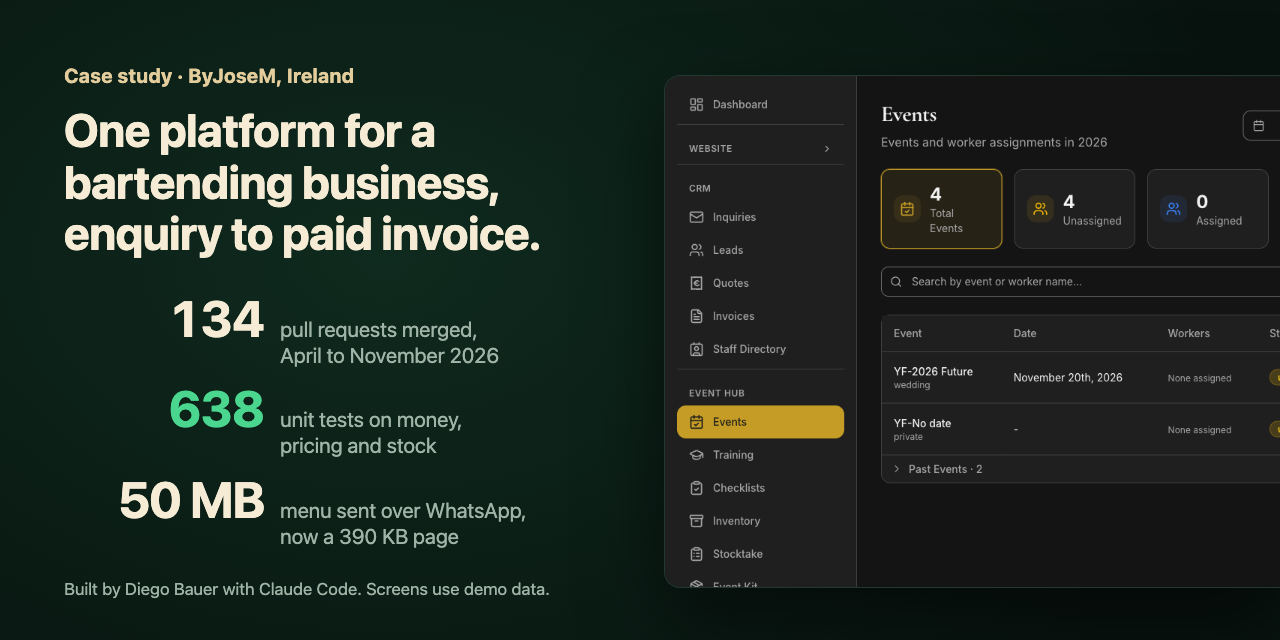
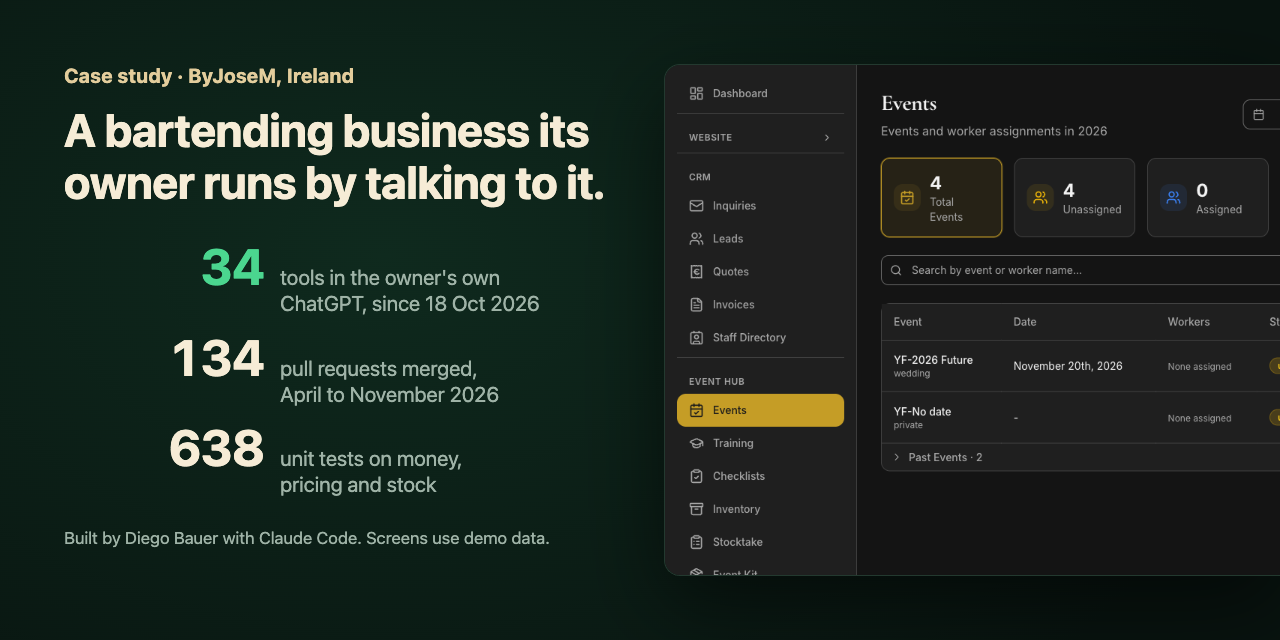
docs: tell the story as talk to your business
The owner now runs ByJoseM by voice from his own ChatGPT. New section
with the connector's 34 tools, how it talks and how it stays safe; new
cover hook; a What went wrong row on the admin and ChatGPT drifting.

diff --git a/docs/src/cover.html b/docs/src/cover.html
@@ -23,11 +23,11 @@ body.social .url { display: block; }
 <body>
   <div>
     <div class="kicker">Case study · ByJoseM, Ireland</div>
-    <h1>One platform for a bartending business, enquiry to paid invoice.</h1>
+    <h1>A bartending business its owner runs by talking to it.</h1>
     <div class="num">
+      <div class="row g"><b>34</b><span>tools in the owner's own<br>ChatGPT, since 18 Oct 2026</span></div>
       <div class="row c"><b>134</b><span>pull requests merged,<br>April to November 2026</span></div>
-      <div class="row g"><b>638</b><span>unit tests on money,<br>pricing and stock</span></div>
-      <div class="row c"><b>50 MB</b><span>menu sent over WhatsApp,<br>now a 390 KB page</span></div>
+      <div class="row c"><b>638</b><span>unit tests on money,<br>pricing and stock</span></div>
     </div>
     <p class="foot">Built by Diego Bauer with Claude Code. Screens use demo data.</p>
   </div>

diff --git a/README.md b/README.md
@@ -1,6 +1,6 @@
 # ByJoseM case study
 
-**One platform for a bartending business, from enquiry to paid invoice.**
+**A bartending business its owner now runs by talking to it.**
 
 [![Case study](https://img.shields.io/badge/case_study-client_work-0c1a1c?style=for-the-badge&labelColor=0c1a1c&color=e3cd9c)](#the-problem)
 [![Screens](https://img.shields.io/badge/screens-demo_data-0c1a1c?style=for-the-badge&labelColor=0c1a1c&color=7fe6da)](#what-it-does)
@@ -9,13 +9,13 @@
 ![Supabase](https://img.shields.io/badge/Supabase-0c1a1c?style=for-the-badge&logo=supabase&logoColor=7fe6da)
 [![Text](https://img.shields.io/badge/text-all_rights_reserved-0c1a1c?style=for-the-badge&labelColor=0c1a1c)](LICENSE)
 
-[![134 pull requests merged between April and November 2026, 638 unit tests on money, pricing and stock, and a 50 MB menu sent over WhatsApp turned into a 390 KB page.](docs/assets/cover.png)](#what-it-does)
+[![34 tools in the owner's own ChatGPT since 18 October 2026, 134 pull requests merged, 638 unit tests on money, pricing and stock.](docs/assets/cover.png)](#talk-to-your-business)
 
-A case study of client work. Built by Diego Bauer for ByJoseM, a premium mobile bartending service in Ireland, from October 2025 to November 2026, with Claude Code. The platform is live and in daily use; the software is private, so this repo holds the story, the decisions and screenshots made with demo data.
+A case study of client work. Built by Diego Bauer for ByJoseM, a premium mobile bartending service in Ireland, from October 2025 to November 2026, with Claude Code. It started as a website and a back office. A year later the owner runs the business by voice from his own ChatGPT, through a connector into that back office. The platform is live and in daily use; the software is private, so this repo holds the story, the decisions and screenshots made with demo data.
 
-**[See the screens](#what-it-does)** (demo data, nothing real) · **[Read the decisions](docs/decisions.md)** · [Architecture](docs/architecture.md) · [Security](docs/security.md) · [byjosem.com](https://www.byjosem.com)
+**[Talk to your business](#talk-to-your-business)** · **[See the screens](#what-it-does)** (demo data, nothing real) · [Read the decisions](docs/decisions.md) · [Architecture](docs/architecture.md) · [Security](docs/security.md) · [byjosem.com](https://www.byjosem.com)
 
-**Contents:** [The problem](#the-problem) · [Research](#research) · [What it does](#what-it-does) · [Results](#results) · [The build](#the-build) · [What went wrong](#what-went-wrong) · [What I learned](#what-i-learned) · [Read more](#read-more)
+**Contents:** [The problem](#the-problem) · [Research](#research) · [What it does](#what-it-does) · [Talk to your business](#talk-to-your-business) · [Results](#results) · [The build](#the-build) · [What went wrong](#what-went-wrong) · [What I learned](#what-i-learned) · [Read more](#read-more)
 
 ## The problem
 
@@ -57,14 +57,14 @@ One booking is one thread: enquiry, lead, quote, event, stock, staff, invoice, p
 
 ## What it does
 
-Three surfaces over one database, plus a ChatGPT connector added in October 2026.
+Three surfaces over one database, plus the ChatGPT connector added in October 2026.
 
 | Surface | Who | What it does |
 |---|---|---|
 | **Public website** | Customers | Packages, services, reviews, FAQs and an enquiry form, all edited by the owner. Enquiries become CRM leads automatically. A cocktail menu lets customers shortlist three drinks and send the choice by WhatsApp, no account needed. |
 | **Admin** | The owner | 32 pages: content, CRM and pipeline, quote builder with branded PDFs and revisions, invoices, payments and receipts, weekly stocktake and reorder list, events hub, staff directory, training, and a help centre of 14 articles. |
 | **Worker portal** | Staff | Their assigned events only: the menu, the checklists for their role, the event kit, a start and complete clock, and a training hub. |
-| **ChatGPT connector** | The owner | The owner asks about events, leads, quotes, stock and who owes money in his own ChatGPT, and can add leads, plan an event and save draft quotes in plain words. |
+| **ChatGPT connector** | The owner | The owner runs the business by talking to it in his own ChatGPT: asks, acts and drafts, by voice. [More below](#talk-to-your-business). |
 
 <table>
 <tr>
@@ -94,7 +94,23 @@ Three surfaces over one database, plus a ChatGPT connector added in October 2026
 5. **Stock** ([decision 1](docs/decisions.md#1-kill-the-recipe-driven-inventory-engine-count-bottles-instead)): a weekly count in the order the owner walks the storeroom, par levels edited inline, a reorder list to copy into WhatsApp.
 6. **Access** ([security](docs/security.md)): two roles, checked in the database and again in the interface. Workers read an event only while assigned to it.
 
-**The ChatGPT connector.** The owner already used ChatGPT, so the platform went there instead of the other way round. It connects through his own account but only reaches a narrow set of its own functions, never the admin's. Saving or changing a quote asks first. Stock leaving or coming back for an event needs a tap on a Confirm card. It never sends anything to a customer, deletes anything or touches payments, treats text typed by customers as untrusted, and can undo its own changes for seven days.
+## Talk to your business
+
+By autumn 2026 the platform did its job: one thread from enquiry to receipt, tested on real bookings. It had replaced five apps and a spreadsheet. What it hadn't replaced was the owner's time at a screen. Jose was still spending a good part of his week inside the admin, on a phone, between events. A better back office would only have made that time a little shorter.
+
+So the last layer wasn't another screen. Jose already used ChatGPT, so the business went there instead of the other way round. Since 18 October 2026 the platform has a connector (an MCP server) in his own ChatGPT account. By mid-November he was running the day-to-day by voice: he says what he needs, and ChatGPT does it in the back office.
+
+| He can | Through |
+|---|---|
+| **Ask** what's on this month, who still owes money, which leads have gone quiet, what's running low, who's free on Saturday, how the month compares to last | 16 read tools: events, leads, enquiries, quotes, money outstanding, stock, staffing, business summary, package performance, repeat customers |
+| **Do** add or update a lead, plan an event's cocktails, staff and standard kit, record a delivery, confirm the stock leaving for an event and log what came back | 15 write tools, each logged, with an undo for stock and lead changes |
+| **Draft** a quote from the real catalogue and prices, or a reply to a customer | 3 draft tools; drafts are saved in the admin and nothing is sent |
+
+**How it talks.** The rule I wrote before the first tool: Jose should feel he is talking to his business, not filling in forms. A question gets one answer and no follow-up questions. A job with several details, like organising an event, is a conversation that offers the real options from his own catalogue. Only sensitive changes ask first: saving a quote or an invoice. Closing a lead goes straight through, because Jose tried both and preferred it. When something can't be done from ChatGPT yet, it says so and says where to do it in the admin.
+
+**How it stays safe.** It connects through his own account but only reaches its own 34 functions in a separate database schema, never the admin's, so a stolen token can do what the tools do and nothing more. It never sends anything to a customer, deletes anything or touches payments. Text typed by customers comes back marked as untrusted. Stock leaving or coming back for an event needs a tap on a Confirm card; a typed yes isn't enough. Every call is logged without names or free text, and an off switch in the admin stops every tool at once.
+
+**Next to his other tools.** The same ChatGPT also has his email connected (through ChatGPT's own mail connector, not ours), so one conversation can find a customer's email and update their lead. On a call on 16 November 2026 we tested it live: the email search, the event data and the lead update all worked. His calendar is next, for reminders.
 
 ## Results
 
@@ -102,6 +118,8 @@ Measured in the private repo; the pull request numbers are there for anyone revi
 
 | What | Before | After | Where |
 |---|---|---|---|
+| Where the owner runs the business | the admin, on a phone | his own ChatGPT, by voice | connector live 18 Oct 2026 |
+| Actions he can take from ChatGPT | 0 | 34 fixed tools: 16 to ask, 15 to act, 3 to draft | #118 to #151, Oct 2026 |
 | Cocktail menu sent to customers | a file of about 50 MB over WhatsApp | a page of about 390 KB (13 KB per drink card instead of a 669 KB image) | PR #39, Aug 2026 |
 | Images on the homepage | 3,061 KB | 701 KB, after resizing uploads in the browser | PR #104, Sep 2026 |
 | Design-token colour pairs failing contrast | 9 | 0, checked by a script | PRs #56, #57, Aug 2026 |
@@ -129,7 +147,7 @@ From April 2026 the process was fixed after a production crash: one ticket, one 
 | Aug 2026 | Public cocktail menu (#39), locale-safe money parsing (#47), contrast sweep (#56, #57), one invoice per job (#73), help centre (#76, #77) |
 | Sep 2026 | One catalogue for every price (#91), event stock you confirm (#99), image weight cut (#104) |
 | Oct 2026 | ChatGPT connector built piece by piece (#118 to #151), live in the owner's ChatGPT on 18 Oct |
-| Nov 2026 | Security and privacy batch: secret scan, key rotation, cookie consent, data retention (#160 to #169) |
+| Nov 2026 | Security and privacy batch: secret scan, key rotation, cookie consent, data retention (#160 to #169). VAT on quotes (#171, #172). The owner runs the day-to-day by voice in ChatGPT, with his email connected alongside |
 
 Pull request numbers refer to the private repo.
 
@@ -153,26 +171,27 @@ The brand was the owner's: dark surfaces and a gold accent. The work was making 
 | **We answered a question the owner didn't have.** Two invoices per job was sound accounting and meant twice the paperwork. After three weeks of real use we reversed it. | [Decision 6](docs/decisions.md#6-one-invoice-per-job-reversing-our-own-earlier-call) |
 | **A stock design followed the database, not the job.** It passed three careful reviews and the owner found it confusing within a day. The fix: a cocktail is the unit of work, and stock is a plan you confirm. | [Decision 7](docs/decisions.md#7-event-stock-is-a-plan-you-confirm-not-instant-movements) |
 | **We started building stock from recipes.** It needed till data the business will never have. We killed it and built the weekly count bars actually use. | [Decision 1](docs/decisions.md#1-kill-the-recipe-driven-inventory-engine-count-bottles-instead) |
+| **Two front doors, one database.** On 16 November we switched VAT on in the quote settings, and ChatGPT stopped being able to create new quotes while the admin carried on fine. The admin and the connector had drifted apart. The fix is built, and every admin action (157 of them) is now being checked against what ChatGPT can do. | [Talk to your business](#talk-to-your-business) |
 | **Three releases looked like they hadn't happened.** The installed app's service worker kept serving the old version, and since PDFs are made in the browser, a stale app could make a stale document. | [Lessons](docs/lessons.md#what-i-would-do-differently) |
 
 ## What I learned
 
+- **A finished back office still costs the owner screen time.** The last step was letting him ask the business instead of opening it.
 - **Usage data is the cheapest user research.** Before one feedback meeting I checked what was actually used: the CRM daily, almost everything after it abandoned. The meeting became "why did you stop", and the answer was friction, not rejection.
 - **Write down the unit of work in the owner's words before any design review.** The one design rejected within a day was modelled on a table.
 - **Keep business rules you're unsure of out of the schema.** Reversing the invoice model was cheap only because that choice lived in the interface.
 - **A check you've never seen fail isn't a check.** Every new guard now fails once on purpose before it's trusted.
 - **Verify with the real system and real tokens.** Reading code says what should be true; calling the API as each role says what is.
-- **The manual is part of the product.** The help centre is rebuilt from markdown on every deploy, so it can't drift from the app.
 
 More in [docs/lessons.md](docs/lessons.md).
 
-**What's next:** invoices and document links through the ChatGPT connector, a full history per client, and five more demo-data screenshots for this repo (dashboard, quote builder, invoice PDF, stocktake and worker portal on a phone).
+**What's next:** everything the admin does, doable from ChatGPT too (the 157-action check above), starting with invoices and links to documents; calendar reminders; a full history per client; and five more demo-data screenshots for this repo (dashboard, quote builder, invoice PDF, stocktake and worker portal on a phone).
 
 ## Ground rules
 
 - **No code.** The ByJoseM software is private and stays private. Nothing here runs.
 - **Demo data only.** Every screenshot comes from a local test stack with made-up records. No real customers, staff, prices or recipes.
-- **The client read it first.** ByJoseM gave permission for this case study and read the full text before it went live.
+- **The client is on board.** ByJoseM gave permission for this case study and is happy for the story to be told.
 - **Don't probe the live system.** It belongs to the client and is out of scope for testing. See [SECURITY.md](SECURITY.md).
 
 ## Read more

diff --git a/CHANGELOG.md b/CHANGELOG.md
@@ -2,6 +2,7 @@
 
 ## Unreleased · v0.2.0
 - README rewritten as a template v2 case study: problem, research, what it does, the build, what went wrong, what I learned
+- New section, Talk to your business: how the owner moved from using the admin to running the business by voice in ChatGPT, with the connector's 34 tools and its safety rules
 - How-it-works diagram (`docs/how-it-works.svg`) and a cover image built from the demo-data screenshots
 - Screenshots moved to `docs/assets/` and named for what they show
 - CI: gitleaks on the full history and a check that every local link and image resolves
